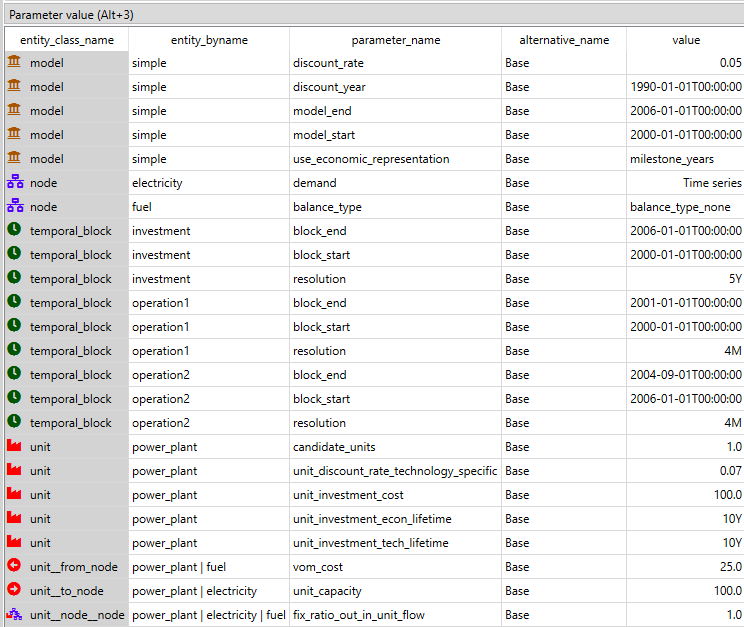
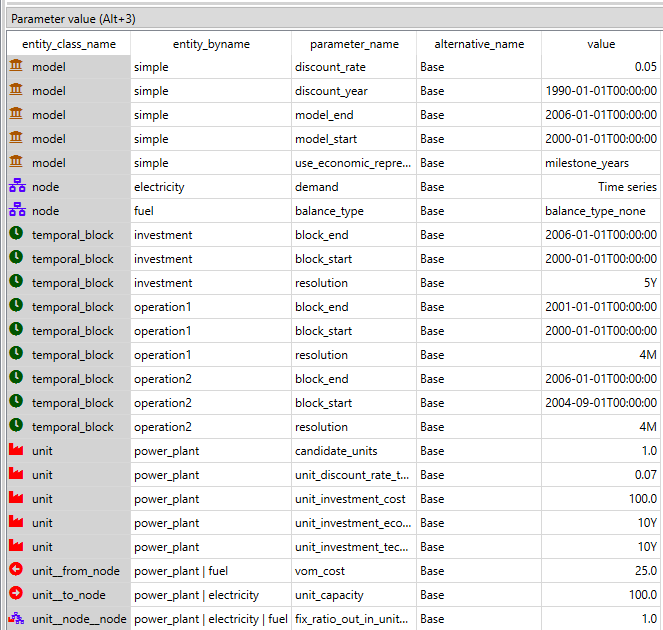
improve and fix errors in Multi-year Investments Using Pre-defined Internal Parameters Tutorial

Changed region(s): [[0.0, 0.0, 1.0, 1.0]]

diff --git a/docs/src/tutorial/multi-year_investment.md b/docs/src/tutorial/multi-year_investment.md
@@ -50,12 +50,16 @@ The rest is for discounting investment costs with the resolution of the investme
 ![image](figs_multi-year/unit_conversion_to_discounted_annuities.png)
 
 ## Using economic parameters with milestone investment years
-Now we set [use\_milestone\_years](@ref) to `milestone_years`. This indicates that we want operational temporal block to be discontinous and use the same milestone years as the investment temporal block. In this case, we need to change the definition of temporal blocks, see below picture. 
+Now we set [use\_milestone\_years](@ref) to `milestone_years`. This indicates that we want operational temporal block to be discontinous and use the same milestone years as the investment temporal block. In this case, we need to change the definition of temporal blocks, see below picture:
+
+![image](figs_multi-year/use_economic_rep_milestone.png)
+
+where the demand `TimeSeries` is defined as follows:
+
+![image](figs_multi-year/demand_ts_milestone.png)
 
 !!! info
     If you get confused why the temporal blocks are defined this way, I recommend going back to [Multi-year investments](https://spine-tools.github.io/SpineOpt.jl/latest/tutorial/capacity_planning/#Multi-year-investments) for details.
-
-![image](figs_multi-year/use_economic_rep_milestone.png)
 
 The values for the output parameter `unit_discounted_duration` are shown below. Note now in 2000, the value becomes 2.79. This parameter value acts as a weight taking into account the discount per year and the resolution of the milestone years. In order words, now the operation costs for the in-between years have also been included.
 
